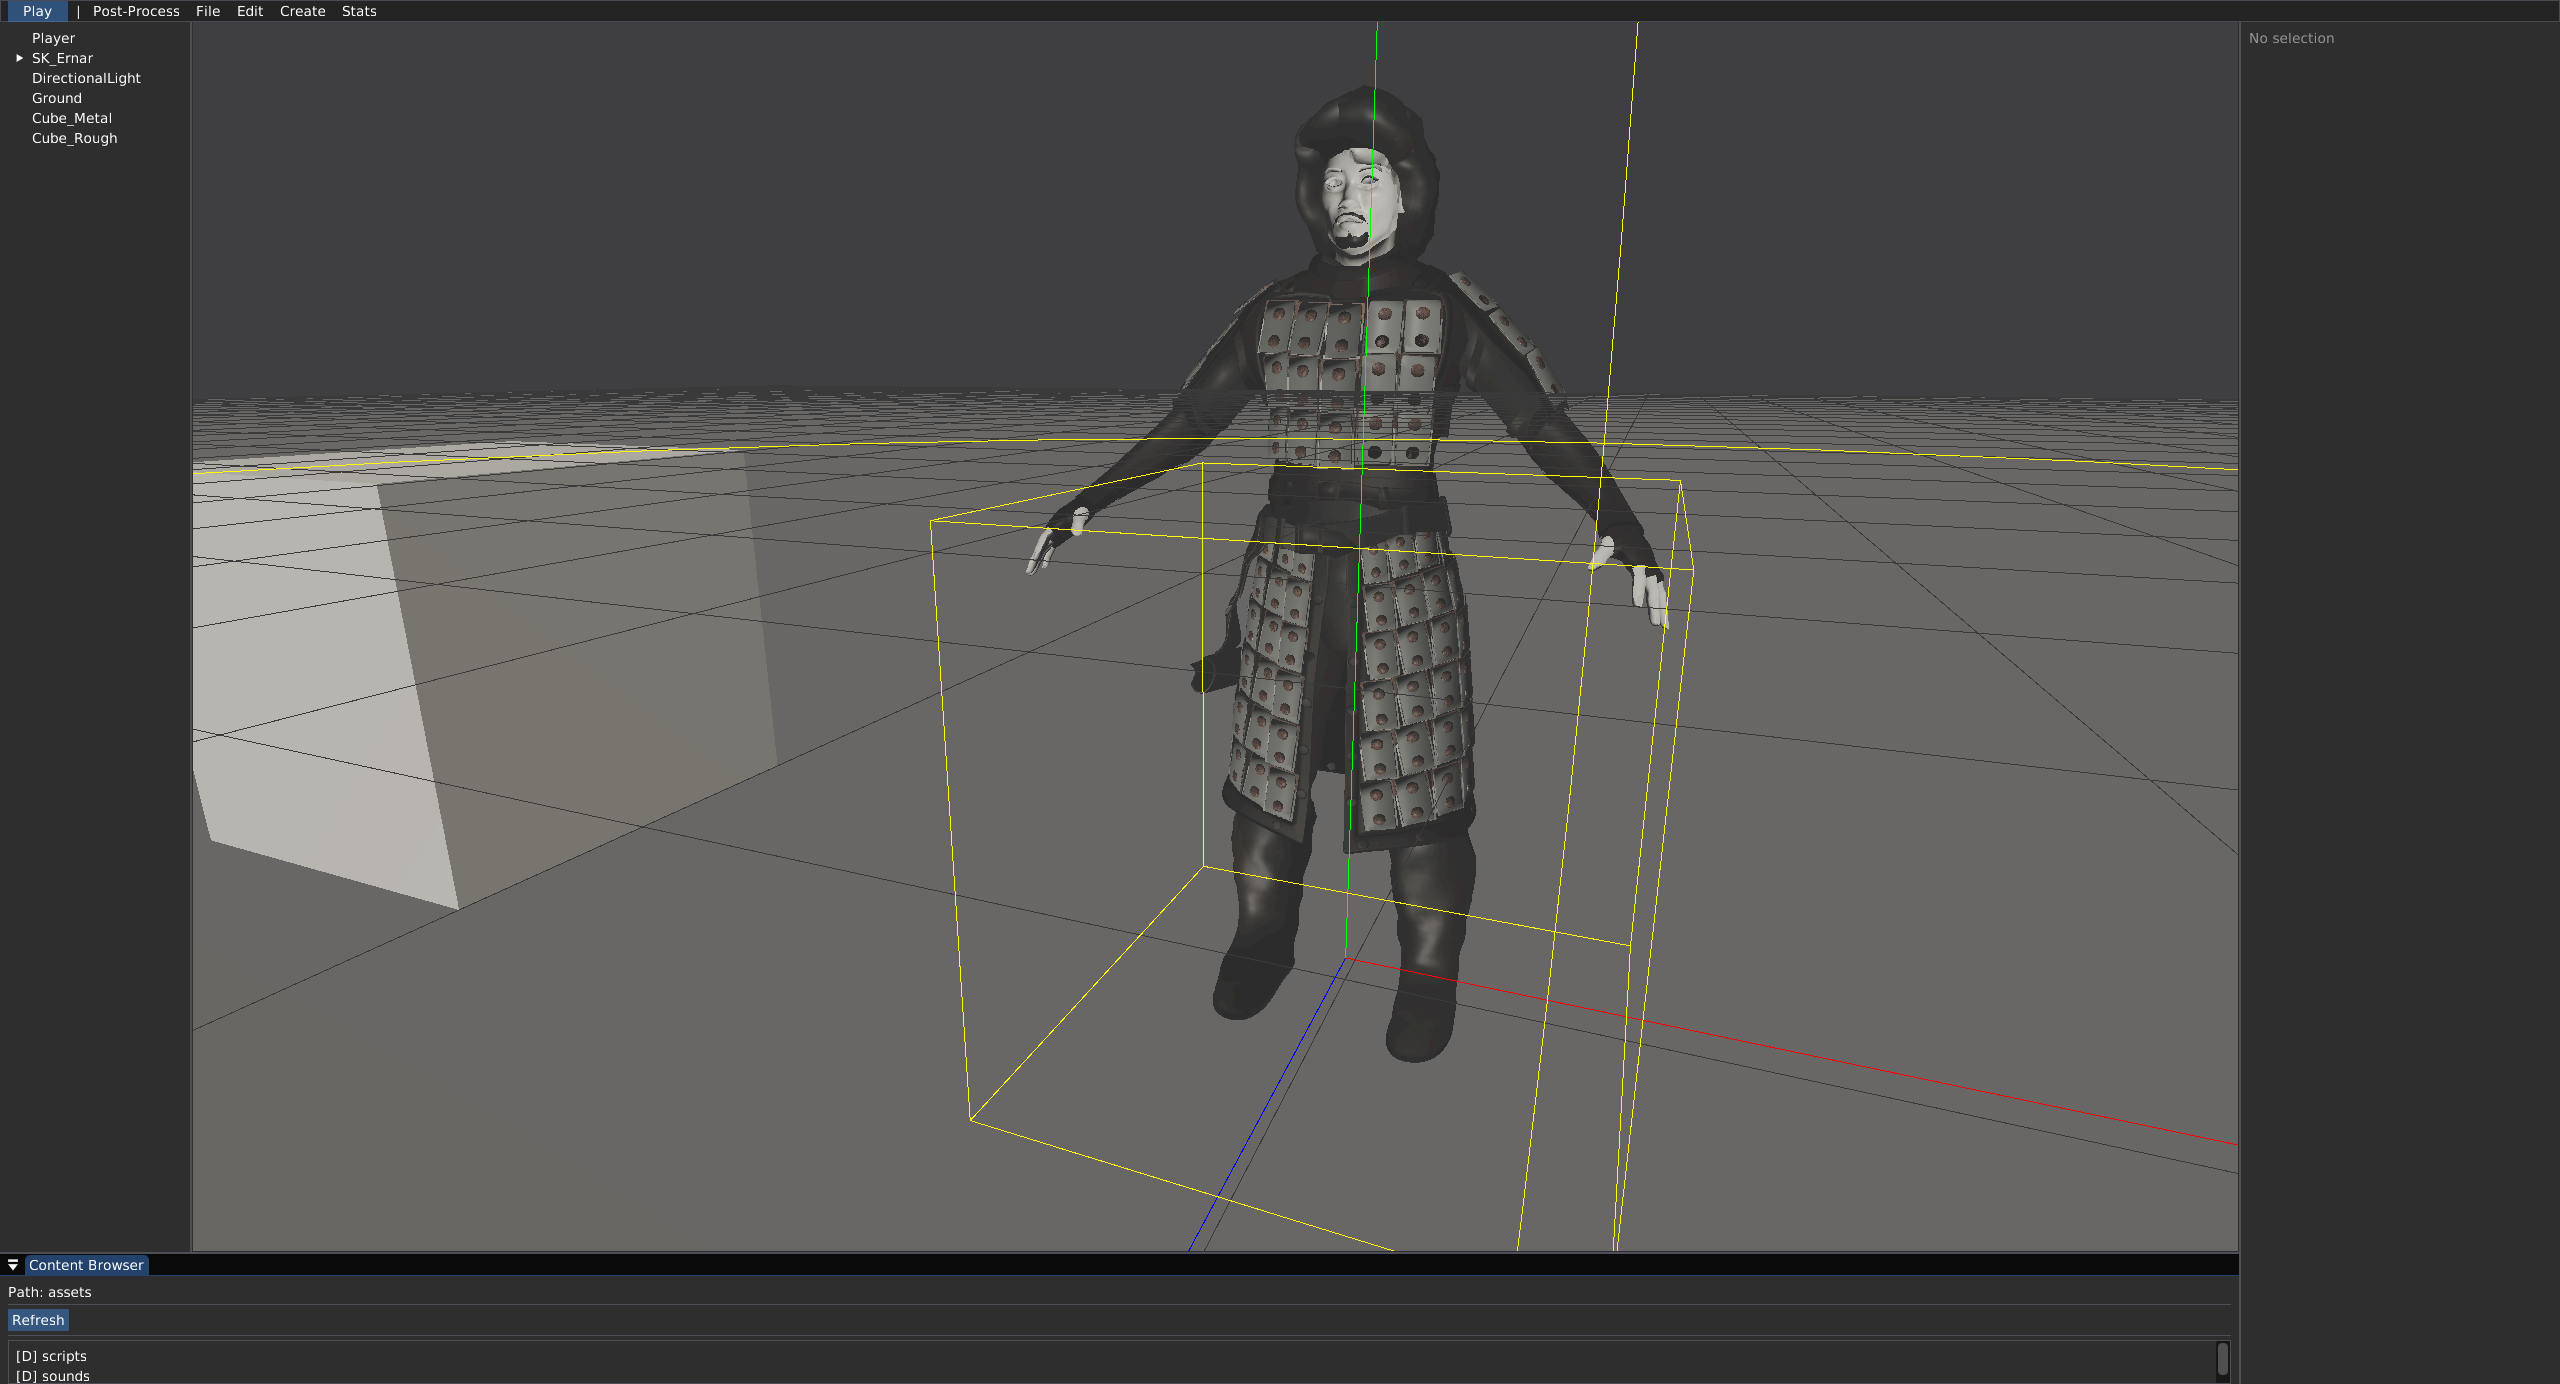
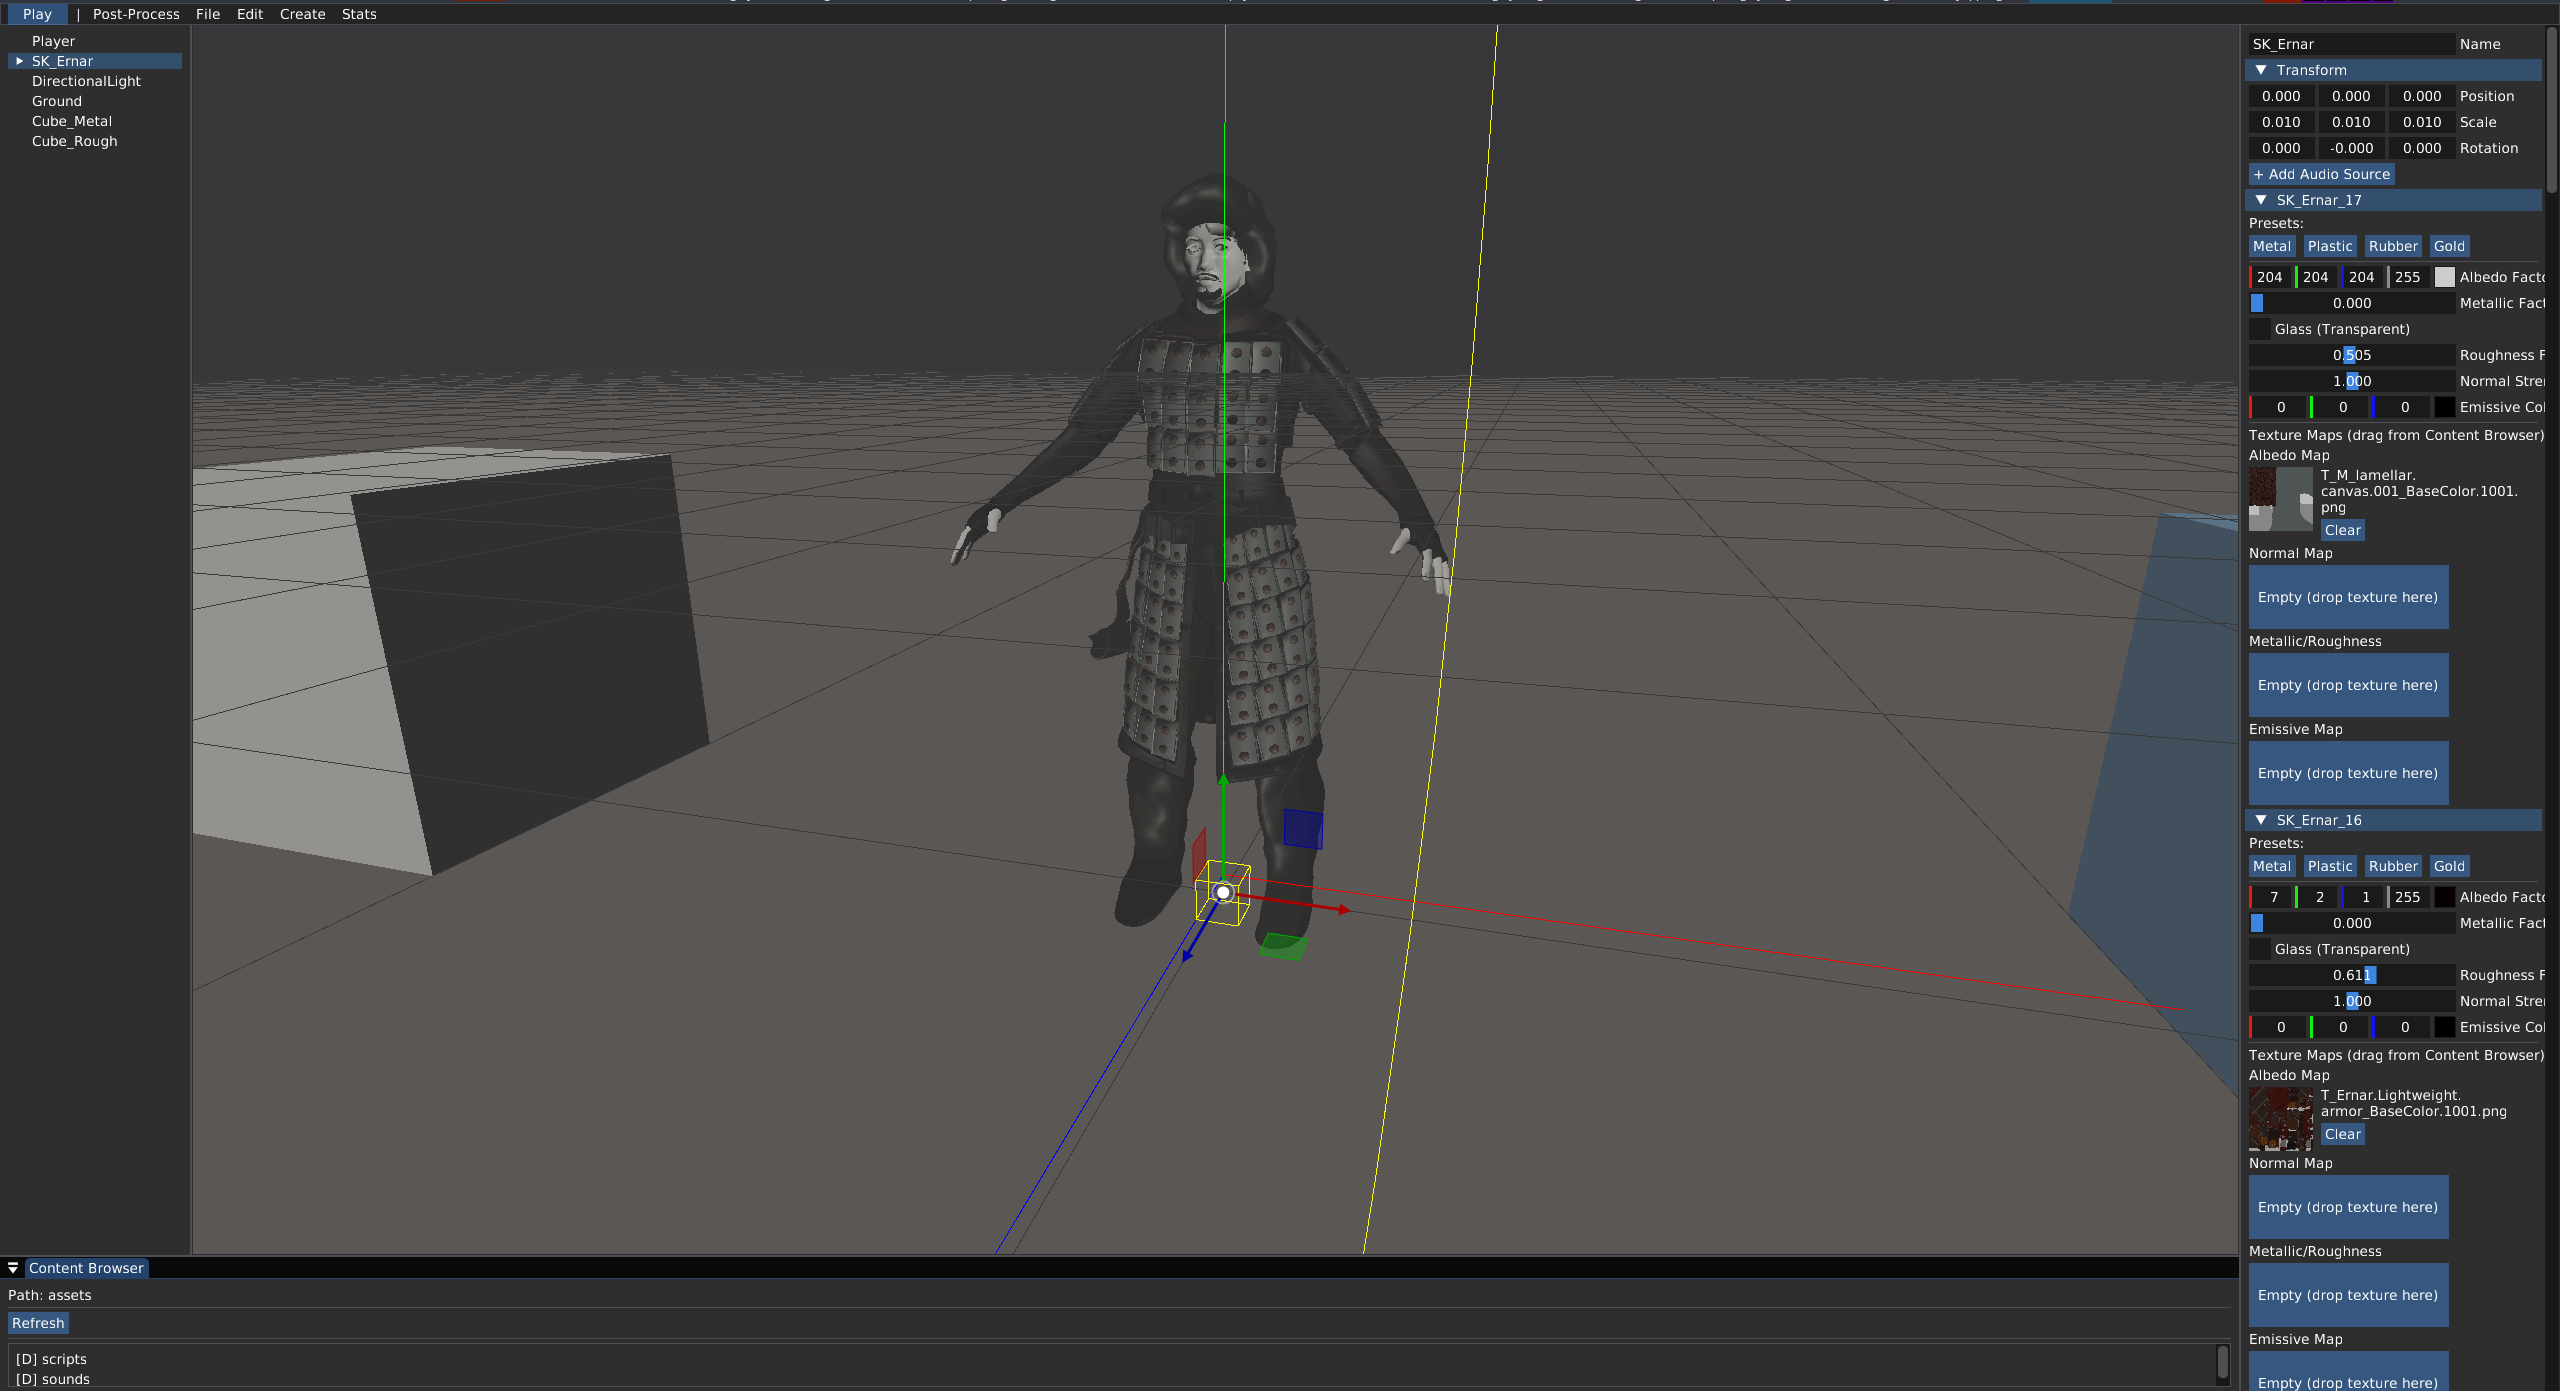
Update readme

Changed region(s): [[0.0, 0.0932, 1.0, 1.0], [0.0, 0.0, 1.0, 0.2796], [0.9688, 0.2486, 1.0, 0.2796]]

diff --git a/README.md b/README.md
@@ -4,7 +4,7 @@
 
 A minimalist game engine inspired by Unreal Engine 5 with ECS-based Scene Graph. The goal is a cross-platform editor with a Vulkan renderer, physics, AI, and Lua Scripting.
 
-Project is under prealpha state, renderer is still unstable and sometimes may hang your GPU, Use at own risk!
+Project is under prealpha state, renderer is still unstable and sometimes may hang your GPU. Use at own risk!
 ---
 
 ## Features
@@ -60,7 +60,6 @@ Navigation	RecastNavigation	zlib
 ECS	EnTT	MIT
 Logging	spdlog	MIT
 
-All dependencies are pulled via FetchContent on the first configuration. The first build takes 15 to 30 minutes (bgfx and Assimp); subsequent builds take seconds.
 
 ## Roadmap
 
